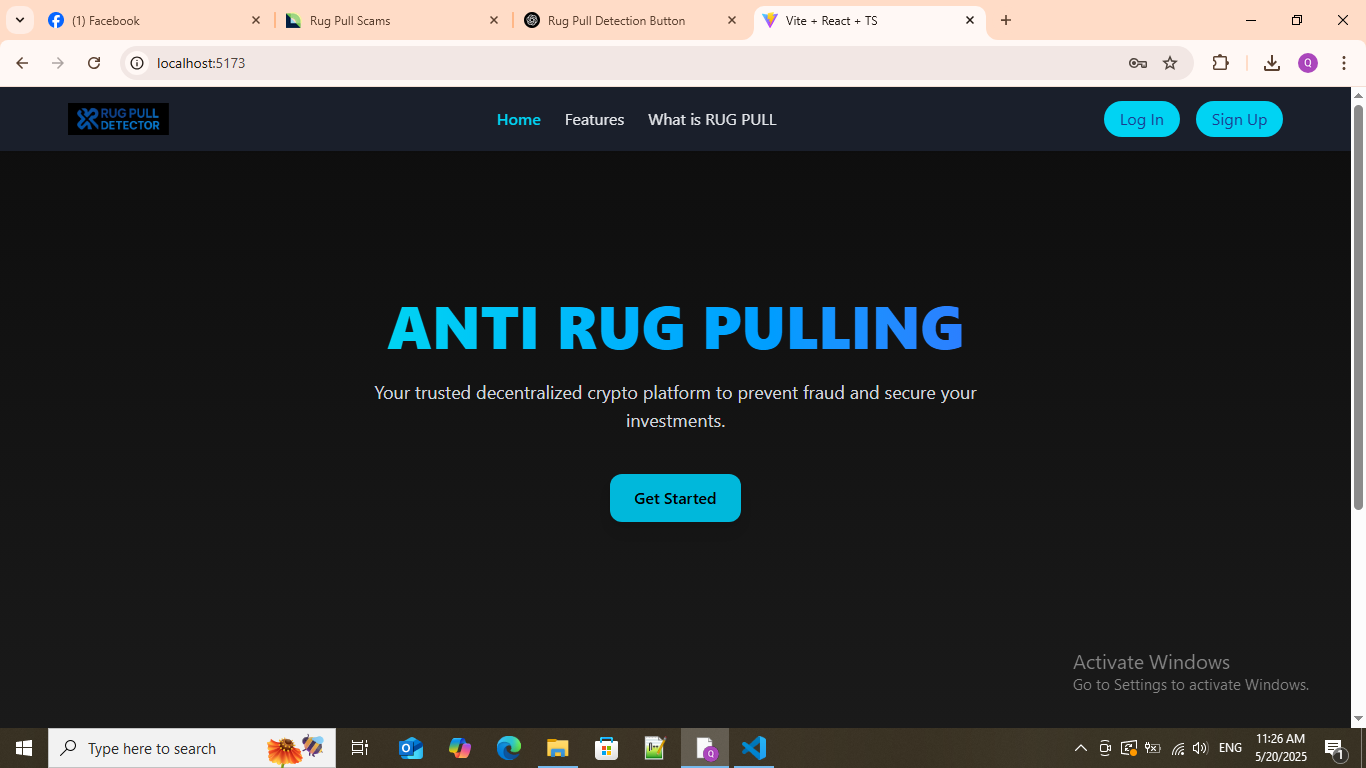
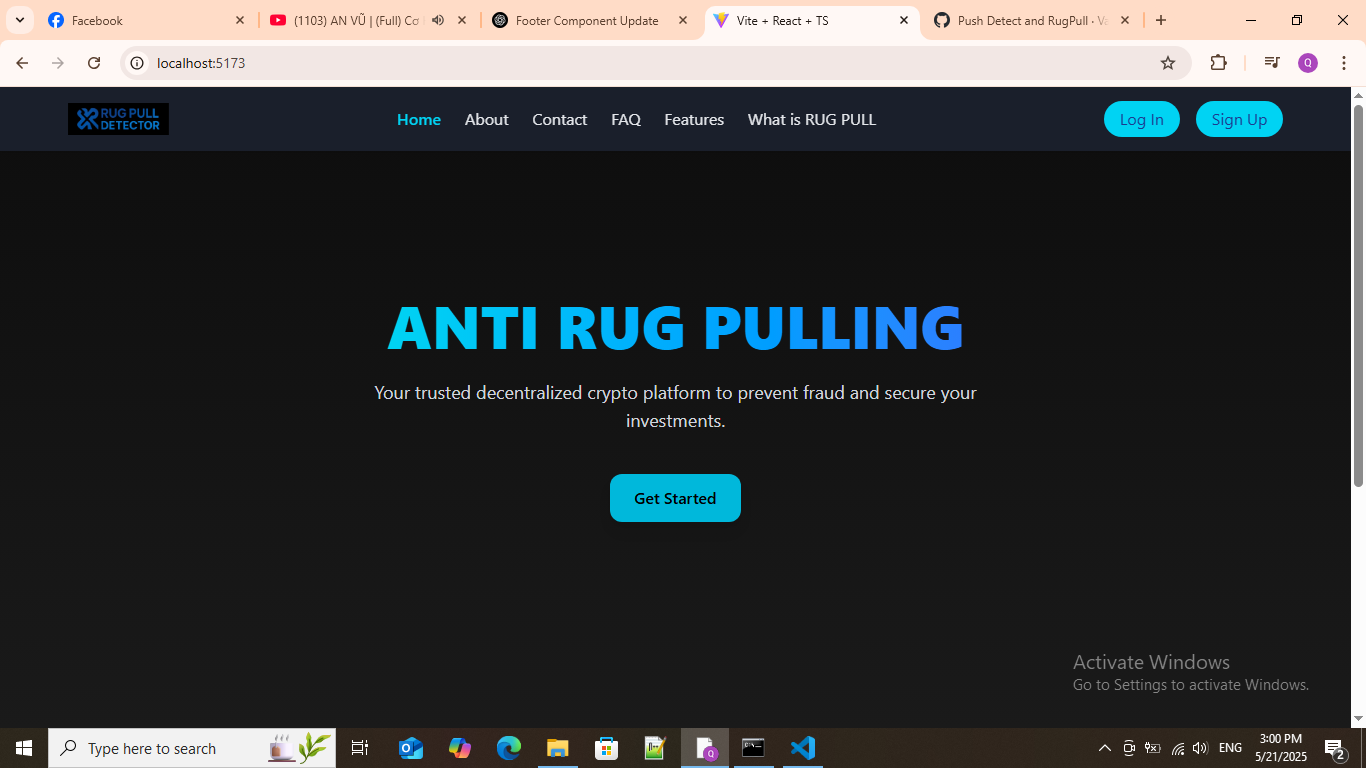
Push

diff --git a/src/components/Footer.tsx b/src/components/Footer.tsx
@@ -1,31 +1,42 @@
-import { Link, useLocation } from "react-router-dom";
+import { Link } from "react-router-dom";
 
 const Footer = () => {
-  const location = useLocation();
-
-  const footerLinks = [
+  const footerSections = [
     {
-      title: "Contact",
+      title: "Products",
       links: [
-        { label: "Email", path: "/contact" },
-        { label: "Phone", path: "/contact" },
-        { label: "Address", path: "/contact" },
+        { label: "Exchange", path: "#" },
+        { label: "App", path: "#" },
+        { label: "Pay", path: "#" },
+        { label: "DeFi Wallet", path: "#" },
+        { label: "Earn", path: "#" },
       ],
     },
     {
-      title: "About Us",
+      title: "Company",
       links: [
-        { label: "Our Mission", path: "/about" },
-        { label: "Team", path: "/about" },
-        { label: "Careers", path: "/about" },
+        { label: "About", path: "/about" },
+        { label: "Careers", path: "#" },
+        { label: "Press", path: "#" },
+        { label: "Security", path: "#" },
+        { label: "News", path: "#" },
       ],
     },
     {
-      title: "FAQ",
+      title: "Resources",
       links: [
-        { label: "General", path: "/faq" },
-        { label: "Security", path: "/faq" },
-        { label: "Usage", path: "/faq" },
+        { label: "Help Center", path: "#" },
+        { label: "Academy", path: "#" },
+        { label: "Market Updates", path: "#" },
+        { label: "Events", path: "#" },
+      ],
+    },
+    {
+      title: "Legal",
+      links: [
+        { label: "Privacy Policy", path: "#" },
+        { label: "Terms of Service", path: "#" },
+        { label: "Disclosures", path: "#" },
       ],
     },
   ];
@@ -39,8 +50,8 @@ const Footer = () => {
 
   return (
     <footer className="bg-gray-900 text-gray-300 py-10 px-6 mt-10">
-      <div className="max-w-7xl mx-auto grid grid-cols-1 sm:grid-cols-2 md:grid-cols-4 gap-8">
-        {/* Logo */}
+      <div className="max-w-7xl mx-auto grid grid-cols-1 sm:grid-cols-2 md:grid-cols-5 gap-8">
+        {/* Logo and Description */}
         <div>
           <Link to="/">
             <img
@@ -50,25 +61,23 @@ const Footer = () => {
             />
           </Link>
           <p className="text-sm text-gray-300">
-            The World’s Leading Cryptocurrency Platform
+            The World's Leading Cryptocurrency Platform
           </p>
         </div>
 
-        {/* Footer Links */}
-        {footerLinks.map((section) => (
+        {/* Footer Sections */}
+        {footerSections.map((section) => (
           <div key={section.title}>
             <h4 className="font-semibold mb-2 text-white">{section.title}</h4>
             <ul className="space-y-1">
               {section.links.map(({ label, path }) => (
                 <li key={label}>
-                  <Link
-                    to={path}
-                    className={`text-sm transition hover:text-white ${
-                      location.pathname === path ? "text-cyan-400 underline" : "text-gray-300"
-                    }`}
+                  <a
+                    href={path}
+                    className="text-sm transition hover:text-white text-blue-600"
                   >
                     {label}
-                  </Link>
+                  </a>
                 </li>
               ))}
             </ul>
@@ -78,7 +87,7 @@ const Footer = () => {
 
       {/* Divider */}
       <div className="border-t border-gray-700 mt-8 pt-6 flex flex-col md:flex-row justify-between items-center">
-        {/* Socials */}
+        {/* Social Icons */}
         <div className="flex space-x-4 mb-4 md:mb-0">
           {socialLinks.map((s) => (
             <a

diff --git a/src/components/Navbar.tsx b/src/components/Navbar.tsx
@@ -8,6 +8,9 @@ const Navbar = () => {
 
   const navLinks = [
     { label: "Home", path: "/" },
+    { label: "About", path: "/about" },
+    { label: "Contact", path: "/contact" },
+    { label: "FAQ", path: "/faq" },
     { label: "Features", path: "/features" },
     { label: "What is RUG PULL", path: "/rugpull" },
   ];

diff --git a/README.md b/README.md
@@ -40,6 +40,8 @@ Designed to simulate a landing page for a crypto protection platform.
 ![Login Page](./public/screenshots/LoginPage.png)
 ### 🏠 SignUp Page
 ![SignUp Page](./public/screenshots/SignUpPage.png)
+### 🏠 Footer
+![Footer](./public/screenshots/Footer.png)
 
 ## 🧰 Tech Stack
 
